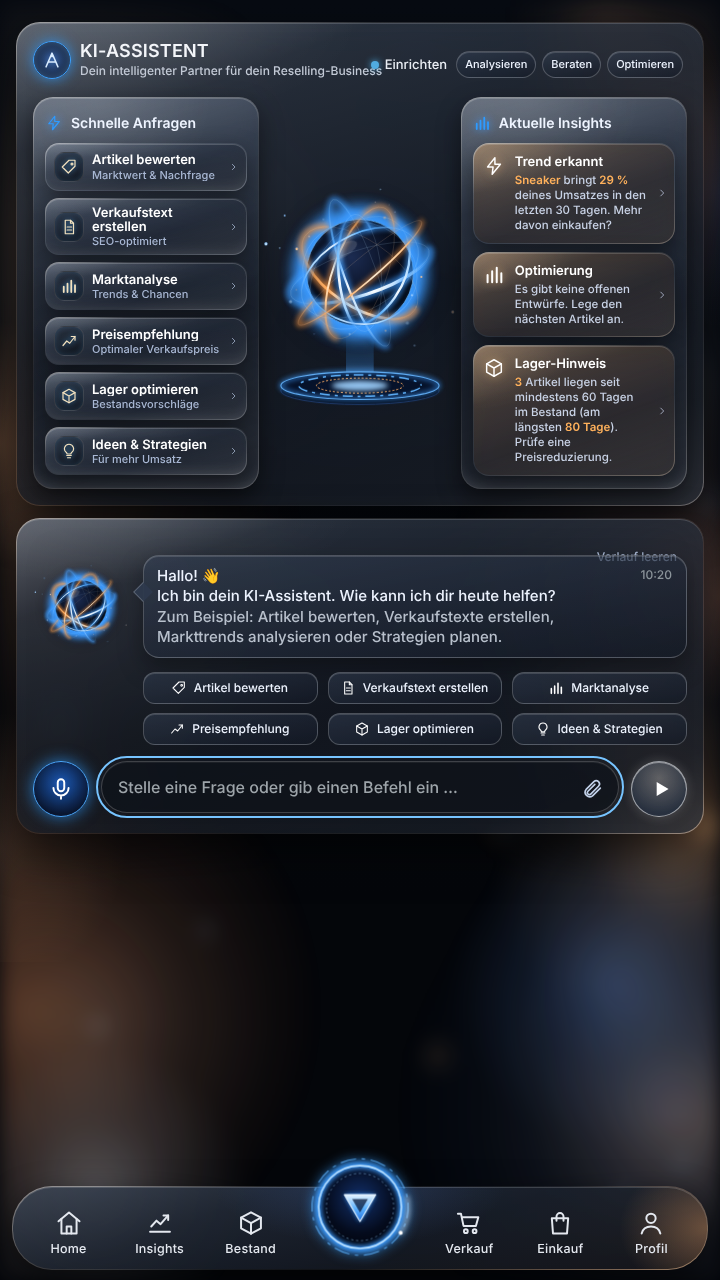
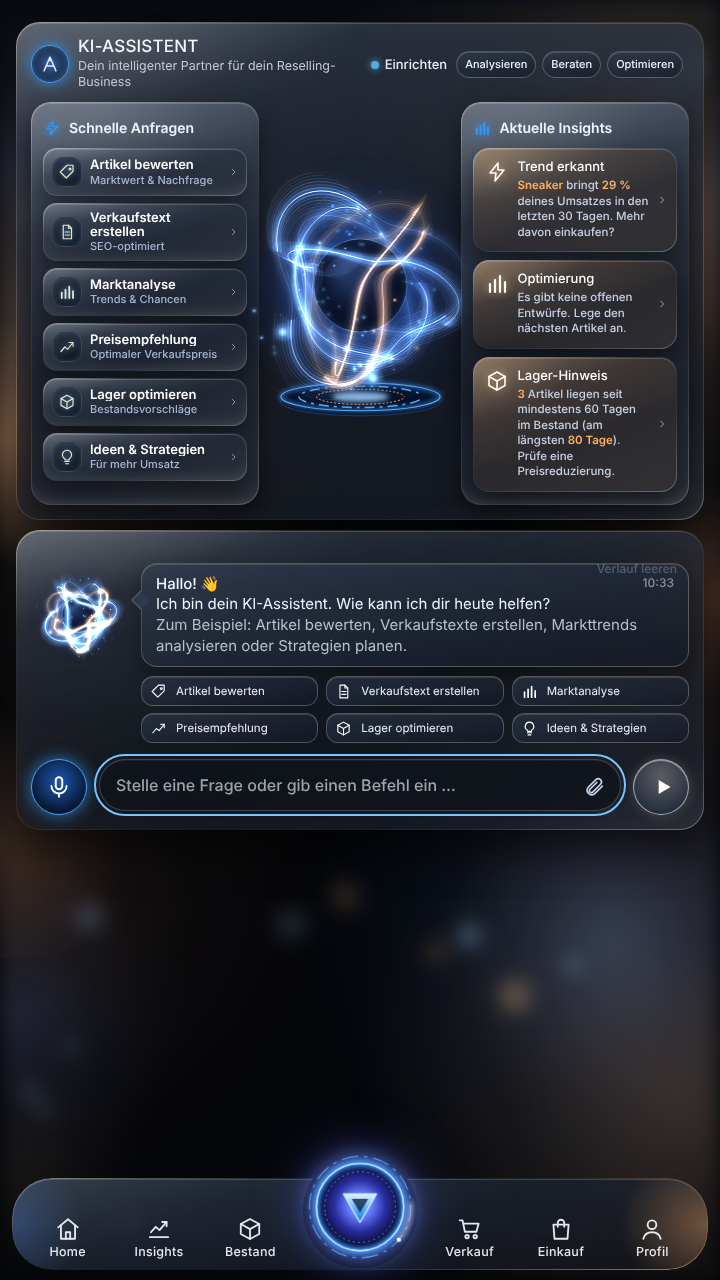
KI-Assistent: Plasma-Energieball nach Vorlage
- Neuer Canvas-Plasmaball: seidige, gewellte Lichtbänder aus vielen feinen
  Fäden, sich verdrehende Bandbreite, additives Leuchten mit Bloom,
  dunkler Kern mit Leuchtrand, funkelnde Partikel und Lichtreflexe
- Auf Startseite, KI-Chat (über dem Sockel) und im Chat-Avatar
- KI-Bereich der Startseite in Größe und Höhe an die Vorlage angepasst

Claude-Session: https://claude.ai/code/session_0194bcZ5PbUBuV3hzmwdGD96

diff --git a/public/fx.js b/public/fx.js
@@ -643,12 +643,124 @@
     return S;
   }
 
+  /* Plasma-Energieball wie in der Vorlage: seidige, gewellte Lichtbänder aus vielen feinen
+     Fäden um einen dunklen Kern, additiv leuchtend, mit Funken. Gezeichnet auf Canvas. */
+  var plasmas = [];
+  function Plasma(canvas, opt) {
+    this.c = canvas; this.ctx = canvas.getContext('2d'); this.size = 0; opt = opt || {};
+    this.scale = opt.scale || 1;
+    var seed = opt.seed || 3; function rnd() { seed = (seed * 9301 + 49297) % 233280; return seed / 233280; }
+    var bands = [];
+    for (var i = 0; i < 6; i++) {
+      bands.push({
+        ax: (rnd() - .5) * 2.6, ay: (rnd() - .5) * 2.6, az: rnd() * 6.283,
+        sx: 0.15 + rnd() * .25, sy: 0.15 + rnd() * .25, sz: (rnd() < .5 ? -1 : 1) * (0.12 + rnd() * .2),
+        r: 0.27 + rnd() * 0.08, lobes: 2 + Math.floor(rnd() * 2), amp: 0.05 + rnd() * 0.06, ph: rnd() * 6.283,
+        warm: i % 3 === 1, strands: 13, spread: 0.008 + rnd() * 0.007, tw: 0.4 + rnd() * 0.8
+      });
+    }
+    this.bands = bands;
+    var parts = [];
+    for (var j = 0; j < 70; j++) parts.push({ a: rnd() * 6.283, b: rnd() * 6.283, r: 0.16 + rnd() * 0.32, sp: (rnd() - .5) * .6, s: 0.4 + rnd() * 1.2, ph: rnd() * 6.283 });
+    this.parts = parts;
+  }
+  Plasma.prototype.resize = function () {
+    if (!this.c.offsetParent) return false;
+    var r = this.c.getBoundingClientRect(), dpr = Math.min(window.devicePixelRatio || 1, 2);
+    var s = Math.max(40, Math.round(Math.max(r.width, r.height) * dpr));
+    if (s !== this.size) { this.size = s; this.c.width = s; this.c.height = s; }
+    return true;
+  };
+  Plasma.prototype.draw = function (t) {
+    var ctx = this.ctx, s = this.size, cx = s / 2, cy = s / 2, k = this.scale;
+    ctx.clearRect(0, 0, s, s);
+    // Schein hinter dem Ball
+    var h = ctx.createRadialGradient(cx, cy, 0, cx, cy, s * .5);
+    h.addColorStop(0, 'rgba(50,110,230,.38)'); h.addColorStop(.42, 'rgba(40,90,210,.22)'); h.addColorStop(1, 'rgba(10,20,60,0)');
+    ctx.fillStyle = h; ctx.fillRect(0, 0, s, s);
+    var core = s * .18 * k;
+    function rot(p, ax, ay, az) {
+      var x = p[0], y = p[1], z = p[2], c, sn, t1;
+      c = Math.cos(ax); sn = Math.sin(ax); t1 = y * c - z * sn; z = y * sn + z * c; y = t1;
+      c = Math.cos(ay); sn = Math.sin(ay); t1 = x * c + z * sn; z = -x * sn + z * c; x = t1;
+      c = Math.cos(az); sn = Math.sin(az); t1 = x * c - y * sn; y = x * sn + y * c; x = t1;
+      return [x, y, z];
+    }
+    var N = 90, self = this;
+    function pass(front) {
+      ctx.globalCompositeOperation = 'lighter';
+      for (var b = 0; b < self.bands.length; b++) {
+        var B = self.bands[b], ax = B.ax + .35 * Math.sin(t * B.sx + B.ph), ay = B.ay + .35 * Math.cos(t * B.sy + B.ph), az = B.az + t * B.sz;
+        for (var st = 0; st < B.strands; st++) {
+          var off = (st - (B.strands - 1) / 2) * B.spread, edge = 1 - Math.abs(st - (B.strands - 1) / 2) / ((B.strands - 1) / 2 + .5);
+          ctx.beginPath(); var on = false;
+          for (var i = 0; i <= N; i++) {
+            var th = i / N * 6.283;
+            var twist = .25 + .75 * Math.abs(Math.sin(th * 1.5 + B.ph + t * .3));
+            var rr = (B.r + off * twist + B.amp * Math.sin(B.lobes * th + B.ph + t * B.tw)) * k;
+            var p = rot([Math.cos(th) * rr, Math.sin(th) * rr, Math.sin(2 * th + B.ph) * B.amp * .8 * k], ax, ay, az);
+            var vis = front ? p[2] >= -0.02 : p[2] < 0.02;
+            if (!vis) { on = false; continue; }
+            var X = cx + p[0] * s, Y = cy + p[1] * s;
+            if (!on) { ctx.moveTo(X, Y); on = true; } else ctx.lineTo(X, Y);
+          }
+          var mid = st === (B.strands - 1) / 2;
+          if (mid) { ctx.lineWidth = s / 30; ctx.strokeStyle = B.warm ? 'rgba(255,170,110,' + (front ? .1 : .04) + ')' : 'rgba(70,140,255,' + (front ? .13 : .05) + ')'; ctx.stroke(); }
+          var a = (front ? .75 : .22) * (.25 + .75 * edge * edge);
+          ctx.lineWidth = Math.max(.5, s / 600) * (mid ? 1.8 : 1);
+          ctx.strokeStyle = mid ? (B.warm ? 'rgba(255,240,220,' + a + ')' : 'rgba(235,245,255,' + a + ')') : B.warm ? 'rgba(255,180,120,' + a + ')' : (st % 3 === 0 ? 'rgba(190,220,255,' + a + ')' : 'rgba(90,160,255,' + a + ')');
+          ctx.stroke();
+        }
+      }
+      // weicher Schleier über die Bänder
+      ctx.globalCompositeOperation = 'source-over';
+    }
+    pass(false);
+    // Kern
+    var g = ctx.createRadialGradient(cx - core * .3, cy - core * .35, core * .1, cx, cy, core);
+    g.addColorStop(0, '#16223f'); g.addColorStop(.6, '#070c1c'); g.addColorStop(1, '#03060f');
+    ctx.fillStyle = g; ctx.beginPath(); ctx.arc(cx, cy, core, 0, 6.283); ctx.fill();
+    ctx.save(); ctx.shadowColor = 'rgba(90,160,255,.9)'; ctx.shadowBlur = s / 25;
+    ctx.strokeStyle = 'rgba(120,180,255,.45)'; ctx.lineWidth = Math.max(1, s / 300);
+    ctx.beginPath(); ctx.arc(cx, cy, core, 0, 6.283); ctx.stroke(); ctx.restore();
+    ctx.fillStyle = 'rgba(160,200,255,.07)'; ctx.beginPath(); ctx.ellipse(cx - core * .35, cy - core * .45, core * .45, core * .2, -.5, 0, 6.283); ctx.fill();
+    pass(true);
+    // Leuchtpunkte und Funken
+    ctx.globalCompositeOperation = 'lighter';
+    if (!SPRITE_RED) { SPRITE_RED = glowSprite('255,150,60'); SPRITE_GOLD = glowSprite('255,215,150'); }
+    if (!this.blue) this.blue = glowSprite('110,180,255');
+    for (var q = 0; q < this.parts.length; q++) {
+      var P = this.parts[q], a2 = P.a + t * P.sp, rr2 = P.r * k;
+      var px = cx + Math.cos(a2) * Math.cos(P.b) * rr2 * s, py = cy + Math.sin(a2) * rr2 * s * .95;
+      var tw = .3 + .7 * Math.max(0, Math.sin(t * 2 * P.s + P.ph));
+      ctx.globalAlpha = tw * .9; var sz = s * .025 * P.s;
+      ctx.drawImage(q % 7 === 0 ? SPRITE_GOLD : this.blue, px - sz / 2, py - sz / 2, sz, sz);
+    }
+    ctx.globalAlpha = 1;
+    [[.27, -.2, 2.1], [-.3, .18, 1.6], [.05, .36, 2.6]].forEach(function (f, i) {
+      var tw2 = .5 + .5 * Math.sin(t * f[2] + i), L = s * .09 * tw2;
+      ctx.globalAlpha = tw2; ctx.drawImage(self.blue, cx + f[0] * s * k - L / 2, cy + f[1] * s * k - L / 2, L, L);
+    });
+    ctx.globalAlpha = 1;
+    // Bloom: weich gezeichnete Kopie für den Leuchtschimmer
+    if (!this.bloom) { this.bloom = doc.createElement('canvas'); }
+    var bl = this.bloom; if (bl.width !== s) { bl.width = s; bl.height = s; }
+    var bc = bl.getContext('2d'); bc.clearRect(0, 0, s, s); bc.filter = 'blur(' + Math.round(s / 60) + 'px)'; bc.drawImage(this.c, 0, 0); bc.filter = 'none';
+    ctx.globalAlpha = .7; ctx.drawImage(bl, 0, 0); ctx.globalAlpha = 1;
+    ctx.globalCompositeOperation = 'source-over';
+  };
+  function plasmaInto(host, opt) {
+    var c = doc.createElement('canvas'); c.className = 'cc-plasma'; c.setAttribute('aria-hidden', 'true');
+    host.appendChild(c); host.classList.add('cc-orb-host');
+    var p = new Plasma(c, opt); plasmas.push(p); return p;
+  }
+
   function setupRobot() {
     var f = doc.querySelector('.v15-bot-frame'); if (!f || f.querySelector('.cc-orb')) return;
     Array.prototype.slice.call(f.children).forEach(function (c) { c.remove(); });
-    buildOrb(f, { R: 60 });
-    var chat = doc.getElementById('ccChatBot'); if (chat && !chat.querySelector('.cc-orb')) { chat.innerHTML = ''; buildOrb(chat, { R: 54, pedestal: true }); }
-    var av = doc.getElementById('ccChatAvatar'); if (av && !av.querySelector('.cc-orb')) { av.innerHTML = ''; buildOrb(av, { R: 54 }); }
+    plasmaInto(f, { seed: 3 });
+    var chat = doc.getElementById('ccChatBot'); if (chat && !chat.querySelector('.cc-orb')) { chat.innerHTML = ''; buildOrb(chat, { R: 54, pedestal: true }); plasmaInto(chat, { seed: 7 }); }
+    var av = doc.getElementById('ccChatAvatar'); if (av && !av.querySelector('.cc-plasma')) { av.innerHTML = ''; plasmaInto(av, { seed: 11 }); }
   }
   doc.addEventListener('rv:ai-state', function (e) {
     var st = e && e.detail && e.detail.state;
@@ -732,8 +844,9 @@
     var t = (now - start) / 1000, dt = Math.min(0.1, t - lastT); lastT = t;
     if (hv) for (var i = 0; i < earths.length; i++) { if (earths[i].resize()) earths[i].draw(t); }
     if (embers) embers(t, dt);
+    for (var pi = 0; pi < plasmas.length; pi++) { if (plasmas[pi].resize()) plasmas[pi].draw(t); }
   }
-  function drawStatic() { for (var i = 0; i < earths.length; i++) { if (earths[i].resize()) earths[i].draw(0); } }
+  function drawStatic() { for (var i = 0; i < earths.length; i++) { if (earths[i].resize()) earths[i].draw(0); } for (var j = 0; j < plasmas.length; j++) { if (plasmas[j].resize()) plasmas[j].draw(2); } }
 
   function init() {
     setupGlobe(); setupAvatar(); setupRobot(); setupNavCore(); setupNavTap(); setupFills(); setupGlints(); setupEmbers(); setupCounters();

diff --git a/public/theme.css b/public/theme.css
@@ -495,3 +495,19 @@ body:has(#home:not(.hidden)) main.wrap { padding-bottom:110px !important; }
 .v11-pill > svg:not(.hud-frame) { color:#dfe6f1 !important; }
 .v11-pill { border-radius:999px !important; }
 .v11-bell { position:relative !important; } .v11-bell.has-tasks i { top:1px !important; right:1px !important; width:9px !important; height:9px !important; }
+/* Plasma-Energieball */
+.cc-plasma { display:block; width:100%; aspect-ratio:1; }
+.v15-bot-frame { position:relative; }
+.v15-bot-frame .cc-plasma { width:128%; margin:-14%; }
+#ccChatBot { position:relative; }
+#ccChatBot .cc-orb-float { display:none; }
+#ccChatBot .cc-plasma { position:absolute; left:-4%; top:-4%; width:108%; height:auto; }
+.cc-busy .cc-plasma { filter:brightness(1.25) saturate(1.2); }
+.v11-ai .v11-chatrow, .v11-chatrow { grid-template-columns:31% minmax(0,1fr) !important; }
+.v15-bot-frame .cc-plasma { width:136% !important; margin:-18% !important; }
+.v15-bot-frame { aspect-ratio:auto !important; height:178px; display:grid; place-items:center; }
+.v15-bot-frame .cc-plasma { width:auto !important; height:236px !important; margin:-29px -20px !important; }
+#ccChatBot .cc-plasma { top:0 !important; margin-top:-4%; }
+.cc-chat-top .v11-ph { padding-right:340px !important; }
+@media(max-width:999px) { .v15-bot-frame { height:150px; } .v15-bot-frame .cc-plasma { height:200px !important; margin:-25px -16px !important; } }
+#ccChatBot .cc-plasma { left:50% !important; width:130% !important; transform:translateX(-50%); margin-top:-15% !important; }

diff --git a/public/sw.js b/public/sw.js
@@ -1,4 +1,4 @@
-const CACHE='rv-studio-v19-blueglass-4';
+const CACHE='rv-studio-v19-blueglass-5';
 const FILES=['/','/index.html','/app.css','/dashboard.css','/fx.css','/ref.css','/theme.css','/app.js','/dashboard.js','/fx.js',
   '/vendor/jszip.min.js','/fonts/command-sans-regular.otf','/fonts/command-sans-bold.otf',
   '/rv-logo.jpg','/rv-ai-mascot.png','/rv-robot-premium.png','/rv-white.png',
